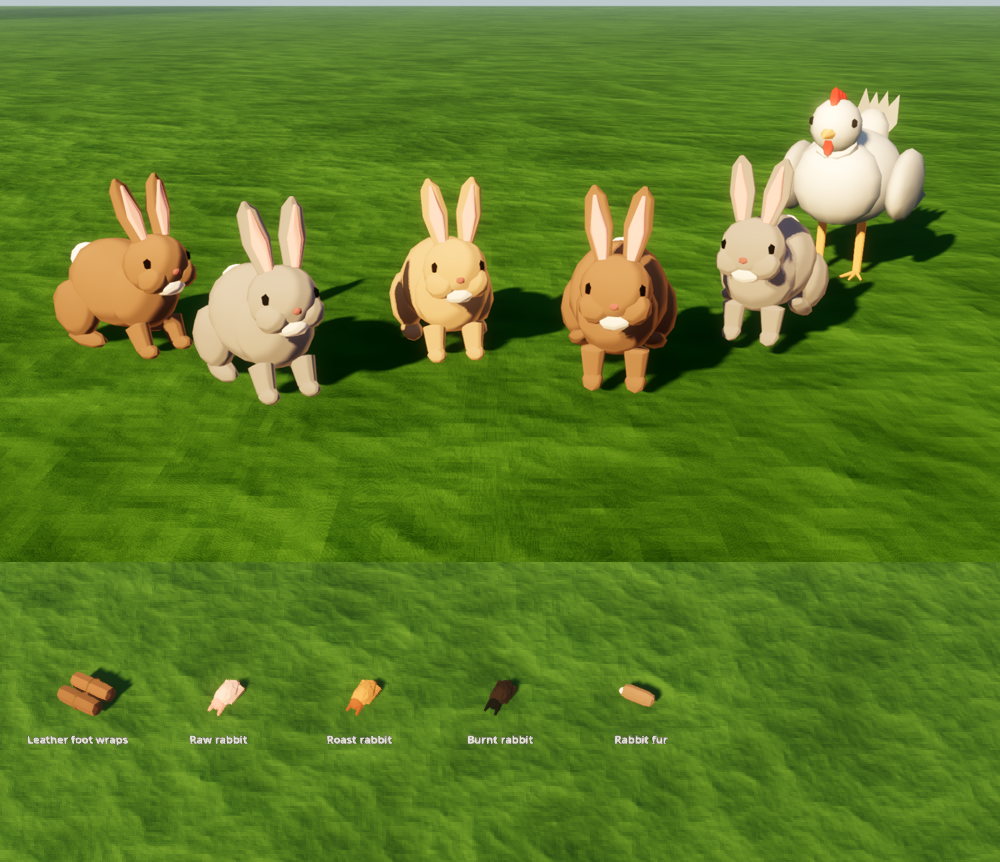
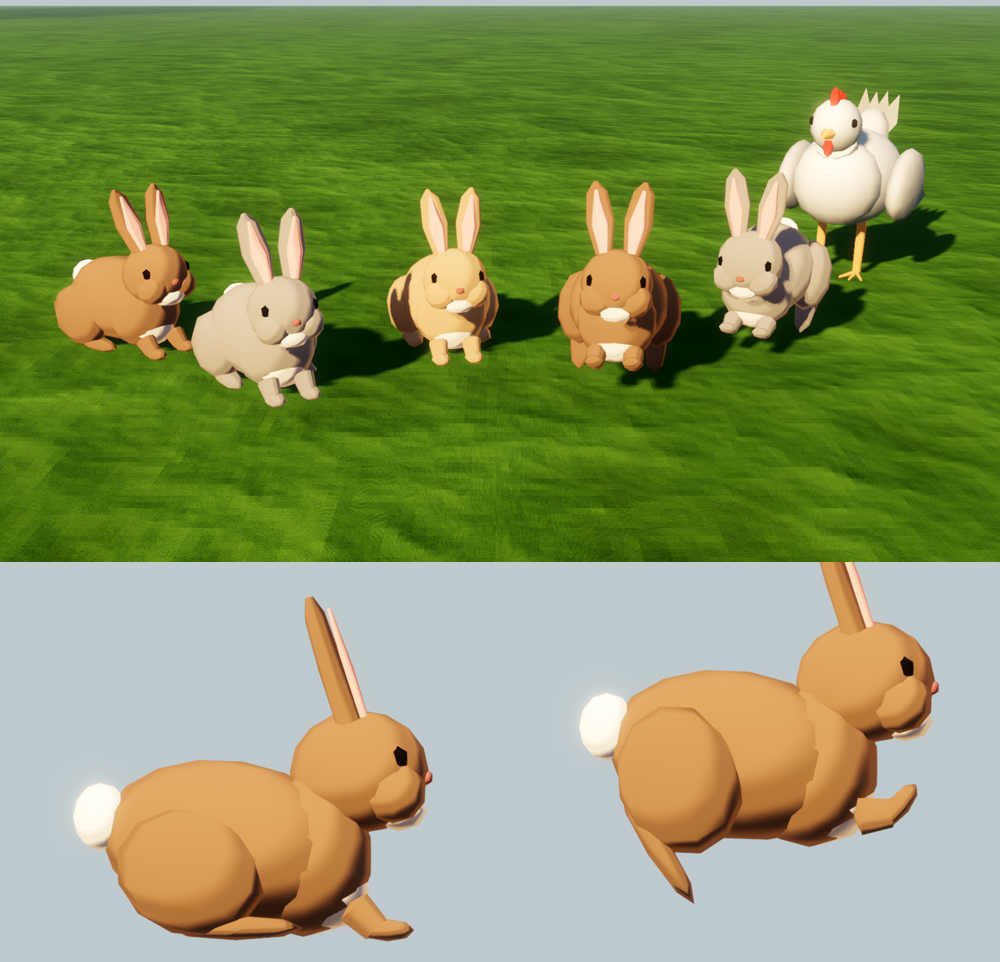
model-18: rabbit sits low and hunched; Hop reaches forward and kicks back (PM review)
Claude-Session: https://claude.ai/code/session_01JKX3FNjkrEkAqoTaFJiXAm

diff --git a/client/scripts/models/RabbitFigure.cs b/client/scripts/models/RabbitFigure.cs
@@ -2,8 +2,8 @@ using Godot;
 
 namespace LifeGame;
 
-// The wild rabbit (model-18, for Animals' animals-22): a soft round bun about
-// 0.25 m to the top of the head, long ears on top, big hind feet and a white
+// The wild rabbit (model-18, for Animals' animals-22): a soft round bun sitting
+// low, about 0.2 m to the top of the head (0.3 m to the ear tips), long ears on top, big hind feet and a white
 // scut, in the same soft painted look as the hen and the sheep. Bones match
 // Sheep.cs (body, fleece, head, four legs) so the herd code drives it unchanged:
 //   leg0 and leg1 are the front paws, leg2 and leg3 the hind legs (swing about X);
@@ -14,12 +14,15 @@ namespace LifeGame;
 public static class RabbitFigure
 {
     public const int BodyBone = 0, FleeceBone = 1, HeadBone = 2, FirstLegBone = 3;
-    public static readonly Vector3 HeadAt = new(0, 0.17f, 0.1f);
+    // Sitting low and hunched at rest (the PM's review of #727): the belly nearly on the
+    // grass, short front paws, big round haunches with the hind feet flat along the
+    // ground. Only Hop stretches it out.
+    public static readonly Vector3 HeadAt = new(0, 0.15f, 0.095f);
     public static readonly Vector3[] Hips =
     {
-        new(-0.035f, 0.055f, 0.075f), new(0.035f, 0.055f, 0.075f), new(-0.055f, 0.09f, -0.07f), new(0.055f, 0.09f, -0.07f),
+        new(-0.03f, 0.03f, 0.09f), new(0.03f, 0.03f, 0.09f), new(-0.055f, 0.075f, -0.06f), new(0.055f, 0.075f, -0.06f),
     };
-    static readonly Vector3 Center = new(0, 0.115f, -0.02f);
+    static readonly Vector3 Center = new(0, 0.085f, -0.02f);
 
     static readonly Color Belly = new(0.93f, 0.89f, 0.82f);
     static readonly Color InnerEar = new(0.9f, 0.66f, 0.62f);
@@ -39,8 +42,8 @@ public static class RabbitFigure
         // Fur: a round body sitting low at the back, a chest, the head, two long ears
         // laid a little back, small front paws and big hind haunches and feet.
         var k = new MeshKit(false);
-        k.Bone(BodyBone).Paint(Colors.White).Ellipsoid(Center, new Vector3(0.085f, 0.08f, 0.115f), 14, 9, new Basis(Vector3.Right, 0.2f));
-        k.Paint(Colors.White, 1.02f).Ellipsoid(Center + new Vector3(0, -0.005f, 0.07f), new Vector3(0.068f, 0.072f, 0.062f), 12, 7);
+        k.Bone(BodyBone).Paint(Colors.White).Ellipsoid(Center, new Vector3(0.085f, 0.075f, 0.115f), 14, 9, new Basis(Vector3.Right, 0.15f));
+        k.Paint(Colors.White, 1.02f).Ellipsoid(Center + new Vector3(0, -0.01f, 0.065f), new Vector3(0.068f, 0.072f, 0.062f), 12, 7);
         k.Bone(HeadBone).Paint(Colors.White).Ellipsoid(HeadAt, new Vector3(0.058f, 0.055f, 0.062f), 12, 8);
         // Cheeks, full and round, so the face reads soft from the front.
         for (int s = -1; s <= 1; s += 2)
@@ -58,24 +61,26 @@ public static class RabbitFigure
         {
             var hip = Hips[side];
             k.Bone(FirstLegBone + side).Paint(Colors.White, 0.98f);
-            k.Loft(hip, new Vector3(hip.X, 0.015f, hip.Z + 0.02f), new MeshKit.Ring[] { new(0f, 0.022f, 0.022f), new(1f, 0.016f, 0.016f) }, 8, 0.3f);
-            k.Ellipsoid(new Vector3(hip.X, 0.012f, hip.Z + 0.03f), new Vector3(0.018f, 0.013f, 0.026f), 8, 4);
+            // Only the paw tips peek out from under the chest.
+            k.Loft(hip, new Vector3(hip.X, 0.01f, hip.Z + 0.02f), new MeshKit.Ring[] { new(0f, 0.018f, 0.018f), new(1f, 0.014f, 0.014f) }, 8, 0.3f);
+            k.Ellipsoid(new Vector3(hip.X, 0.009f, hip.Z + 0.03f), new Vector3(0.017f, 0.01f, 0.024f), 8, 4);
         }
         for (int side = 2; side < 4; side++)
         {
             var hip = Hips[side];
             float s = side == 2 ? -1f : 1f;
             k.Bone(FirstLegBone + side).Paint(Colors.White, 0.97f);
-            // The haunch, folded against the body, and the long hind foot flat on the grass.
-            k.Ellipsoid(hip + new Vector3(s * 0.012f, -0.02f, 0f), new Vector3(0.035f, 0.055f, 0.06f), 10, 6, new Basis(Vector3.Right, 0.4f));
-            k.Paint(Colors.White, 0.95f).Ellipsoid(new Vector3(hip.X + s * 0.008f, 0.014f, hip.Z + 0.02f), new Vector3(0.022f, 0.015f, 0.06f), 8, 4);
+            // The big round haunch folded against the body, its bottom on the grass, and the
+            // long hind foot tucked forward flat along the ground beneath it.
+            k.Ellipsoid(hip + new Vector3(s * 0.012f, -0.015f, 0.005f), new Vector3(0.042f, 0.056f, 0.068f), 10, 6, new Basis(Vector3.Right, 0.3f));
+            k.Paint(Colors.White, 0.95f).Ellipsoid(new Vector3(hip.X + s * 0.01f, 0.011f, hip.Z + 0.045f), new Vector3(0.02f, 0.011f, 0.06f), 8, 4);
         }
         k.Commit(mesh, fur);
 
         // The pale belly and chin, the scut, the eyes, nose and the pink inside the ears.
         k = new MeshKit(false);
-        k.Bone(BodyBone).Paint(Belly).Ellipsoid(Center + new Vector3(0, -0.035f, 0.05f), new Vector3(0.05f, 0.04f, 0.06f), 10, 5);
-        k.Bone(FleeceBone).Paint(Tail).Ellipsoid(Center + new Vector3(0, 0.03f, -0.115f), new Vector3(0.03f, 0.03f, 0.026f), 9, 6);
+        k.Bone(BodyBone).Paint(Belly).Ellipsoid(Center + new Vector3(0, -0.035f, 0.075f), new Vector3(0.05f, 0.045f, 0.05f), 10, 5);
+        k.Bone(FleeceBone).Paint(Tail).Ellipsoid(Center + new Vector3(0, 0.025f, -0.115f), new Vector3(0.03f, 0.03f, 0.026f), 9, 6);
         k.Bone(HeadBone);
         k.Paint(Belly).Ellipsoid(HeadAt + new Vector3(0, -0.035f, 0.035f), new Vector3(0.03f, 0.018f, 0.025f), 8, 4);
         k.Paint(Nose).Ellipsoid(HeadAt + new Vector3(0, -0.005f, 0.06f), new Vector3(0.009f, 0.007f, 0.006f), 6, 3);
@@ -117,19 +122,21 @@ public static class RabbitFigure
     }
 
     // A rabbit hops even when it is only pottering about: one hop per gait cycle, the
-    // front paws reaching forward as the body lifts and pitches nose-down, the hind
-    // feet kicking back, then all four gathered under again. Sheep.cs can use this in
+    // body lifting nose-up off the hind feet, which kick back, the front paws reaching
+    // forward to land nose-down, then all four gathered under again. Sheep.cs can use this in
     // place of the walk for Model == "rabbit"; amount 0 is standing, 1 a full bound.
-    // Leg angles are about X (positive swings forward), lift in metres at scale 1.
+    // Leg angles are about X as Sheep.cs sets them (positive swings a leg back, toward
+    // -Z; the rabbit faces +Z); pitch positive tips the nose down; lift in metres at scale 1.
     public static (float Lift, float Pitch, float Front, float Hind) Hop(float gait, float amount)
     {
         float phase = Mathf.PosMod(gait / Mathf.Tau, 1f);
         // Airborne for the first 60% of the cycle, gathered on the ground for the rest.
         float air = phase < 0.6f ? Mathf.Sin(Mathf.Pi * phase / 0.6f) : 0f;
-        float lift = air * 0.06f * amount;
-        float pitch = Mathf.Sin(Mathf.Tau * phase) * 0.18f * amount;
-        float front = (0.6f * air - 0.25f * (1f - air)) * amount;
-        float hind = (-0.8f * air + 0.2f * (1f - air)) * amount;
+        float lift = air * 0.08f * amount;
+        // Nose up as it pushes off, nose down as it lands.
+        float pitch = -Mathf.Sin(Mathf.Tau * phase / 0.6f) * 0.2f * amount * (phase < 0.6f ? 1f : 0f);
+        float front = (-0.9f * air + 0.2f * (1f - air)) * amount;
+        float hind = (1.0f * air - 0.15f * (1f - air)) * amount;
         return (lift, pitch, front, hind);
     }
 }

diff --git a/client/scripts/models/Showcase.Modeling.cs b/client/scripts/models/Showcase.Modeling.cs
@@ -10,6 +10,29 @@ public partial class Showcase
     [ShowcaseView("rabbit")]
     void Rabbits()
     {
+        if (args.ContainsKey("side"))
+        {
+            // One rabbit at rest and one mid-bound, square side on, to check the posture.
+            for (int i = 0; i < 2; i++)
+            {
+                var one = RabbitFigure.Create(PaintedAnimals.Coat(Look.Solid(new Color(0.55f, 0.42f, 0.3f))));
+                one.Position = new Vector3(i * 0.45f - 0.22f, 0, 0);
+                one.Rotation = new Vector3(0, Mathf.Pi / 2f, 0);
+                if (i == 1)
+                {
+                    var (lift, pitch, front, hind) = RabbitFigure.Hop(Mathf.Tau * 0.3f, 1f);
+                    one.SetBonePosePosition(RabbitFigure.BodyBone, new Vector3(0, lift, 0));
+                    one.SetBonePoseRotation(RabbitFigure.BodyBone, Quaternion.FromEuler(new Vector3(pitch, 0, 0)));
+                    for (int leg = 0; leg < 4; leg++)
+                        one.SetBonePoseRotation(RabbitFigure.FirstLegBone + leg, Quaternion.FromEuler(new Vector3(leg < 2 ? front : hind, 0, 0)));
+                }
+                AddChild(one);
+            }
+            var side = new Camera3D { Projection = Camera3D.ProjectionType.Orthogonal, Size = 0.5f, Current = true };
+            AddChild(side);
+            side.LookAtFromPosition(new Vector3(0, 0.14f, 2f), new Vector3(0, 0.14f, 0), Vector3.Up);
+            return;
+        }
         var coats = new[] { new Color(0.55f, 0.42f, 0.3f), new Color(0.6f, 0.57f, 0.53f), new Color(0.74f, 0.6f, 0.42f) };
         for (int i = 0; i < 5; i++)
         {

diff --git a/tickets/model-18.md b/tickets/model-18.md
@@ -7,7 +7,7 @@ PR: (see below)
 
 ## Goal
 For Animals' animals-22 (PR #723), D-323.
-- `RabbitFigure`: a soft, round wild rabbit about 0.25 m to the top of its head.
+- `RabbitFigure`: a soft, round wild rabbit sitting low, about 0.2 m to the top of its head and 0.3 m to the ear tips.
   - Long ears with pink insides, big hind feet, a white scut and a pale chin and belly, in the hen and sheep's painted look.
   - Same bones as Sheep.cs: body 0, fleece 1 (tail tuft), head 2, legs 3 and 4 front, 5 and 6 hind.
   - It provides `HeadAt`, `Hips`, `Build(fur)` and `Create(fur)`.
@@ -18,6 +18,7 @@ Render: `renders/model-18-rabbit.png`.
 
 ## Progress log
 - 2026-10-17: built the figure, Hop, the items and the view; build has 0 errors; rendered.
+- 2026-10-17 11:20: PM review: the rabbits stood too tall, like deer. Now they sit low and hunched: belly near the grass, big round haunches with flat hind feet, short front paws under a lower chest. Fixed Hop's signs (positive X swings a leg back): front paws reach, hind kick back, nose up on take-off and down on landing. Added `--side` to the rabbit view; the render is the sheet plus a side view.
 
 ## Open questions / blockers
 - Animals wires Model == "rabbit" in Sheep.cs (their file).
